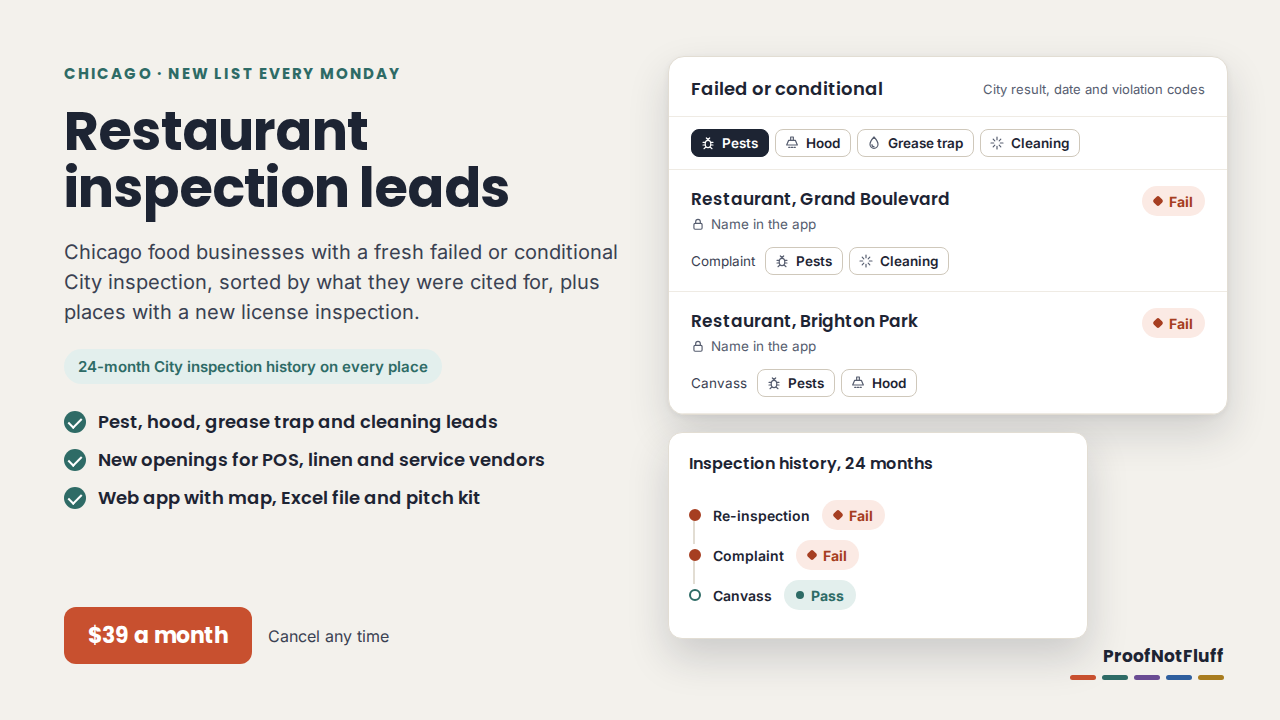
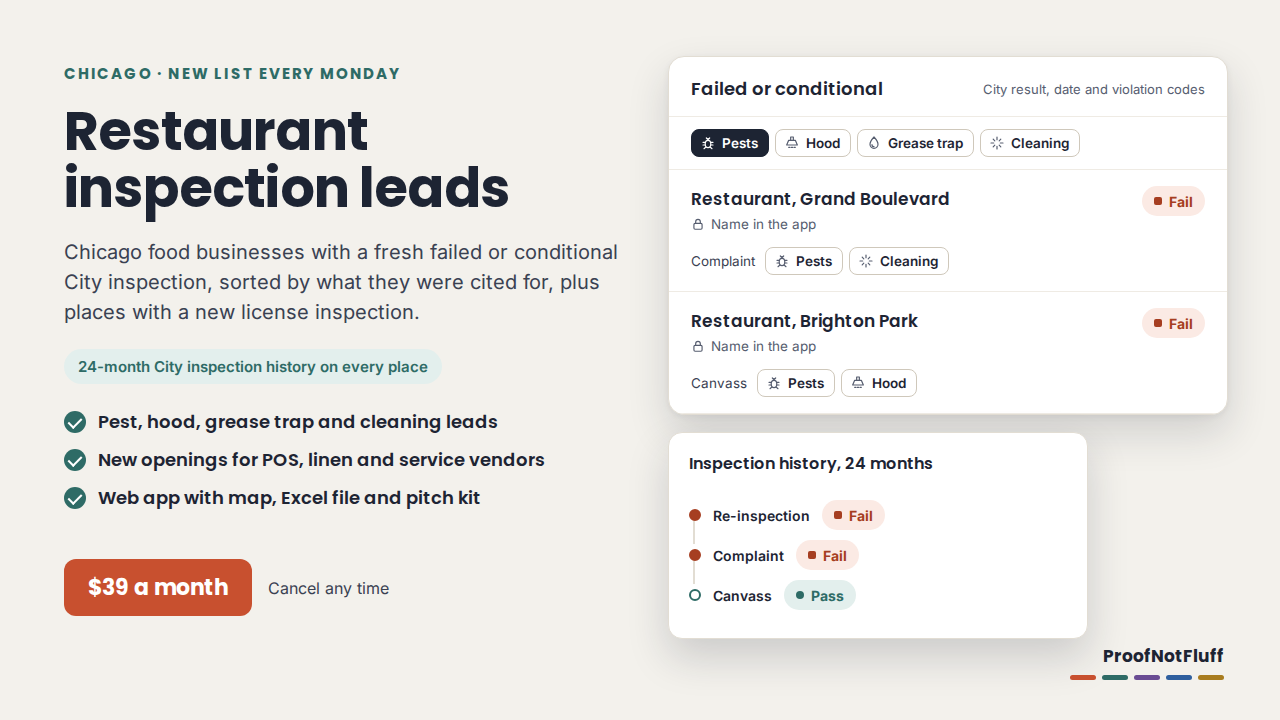
Restaurant leads: holdout round 2 fixes, design polish, rebuild [skip ci]
Grease trap matches the one-word "GREASETRAPS" (Birdman Ramen gets
Grease trap also cited on list 3, so list 3 grease trap is 4), and a
"(38)" straight after an ordinance number names violation 38
(Morrison's Soul Food: Pests 38, 60), each with planted cases. One
shared sentence states who is left out, person-name rule included, on
the workbook Start Here and Terms, the app Terms and the free page.
Free page: trade card at the FAQ measure, 16px over the button,
balanced headings. Rebuilt the free page, cover and thumbnail.

Claude-Session: https://claude.ai/code/session_01VfoTMaqrFpuAkHaeJw7KGX

Changed region(s): [[0.0312, 0.7639, 0.3125, 0.9472]]

diff --git a/docs/chicago-restaurant-inspection-leads/index.html b/docs/chicago-restaurant-inspection-leads/index.html
@@ -6,10 +6,10 @@
 <link rel="preconnect" href="https://fonts.googleapis.com"><link rel="preconnect" href="https://fonts.gstatic.com" crossorigin>
 <link href="https://fonts.googleapis.com/css2?family=Poppins:wght@600;700&display=swap" rel="stylesheet">
 <link rel="stylesheet" href="../assets/pnf.css">
-<script type="application/ld+json">{"@context": "https://schema.org", "@type": "FAQPage", "mainEntity": [{"@type": "Question", "name": "Where does this data come from?", "acceptedAnswer": {"@type": "Answer", "text": "The City of Chicago Data Portal's Food Inspections dataset. We pull it every Monday and keep the last 30 days of inspections up to the newest one the City has published, because the City posts results a few days late."}}, {"@type": "Question", "name": "What do the categories mean?", "acceptedAnswer": {"@type": "Answer", "text": "They are our reading of the City's violation codes: Pests is violation 38 (insects, rodents and animals) and any inspector note naming pests; Hood is violation 56 when it names a hood, filter, exhaust or grease; Grease trap and drains is violation 52 and any note naming a grease trap, interceptor or clogged drain; Cleaning is violation 49 and cleaning notes under 53, 54, 55 and 60."}}, {"@type": "Question", "name": "Who is left out?", "acceptedAnswer": {"@type": "Answer", "text": "Schools, day care and other children's sites, hospitals, senior and nursing sites, mobile vendors, any place whose business name is a person's name, and places the City last marked out of business."}}, {"@type": "Question", "name": "Does a place on the list have a problem today?", "acceptedAnswer": {"@type": "Answer", "text": "Not necessarily. The list repeats the City's result on the inspection date. Many places pass a re-inspection within days, and the members' list shows that newer result next to the old one."}}, {"@type": "Question", "name": "Do you contact these businesses for me?", "acceptedAnswer": {"@type": "Answer", "text": "No. You make your own calls and emails. We never contact anyone on your behalf, and no business listed has endorsed or works with ProofNotFluff."}}, {"@type": "Question", "name": "Why doesn't this page show names?", "acceptedAnswer": {"@type": "Answer", "text": "On this public page we never name a business with a failed result. Members get the full list, licensed to their own business for its own sales calls."}}]}</script><style>.ld-page .asof,.ld-page footer p{color:#555B68}.ld-pill.rp-fail{background:#FBEAE4;color:#A63E21}.ld-pill.rp-pwc{background:#F6EDD5;color:#7A5A12}.ld-pill.rp-pass{background:#E3EFED;color:#2E6B66}.ld-pill.rp-oth{background:#E6EDF6;color:#2F5F9E}.rl-act{margin:18px 0 24px}.ld-page .ld-tiles .tile .lab{letter-spacing:.04em;overflow-wrap:anywhere}@media(max-width:600px){.ld-page .ld-tiles .tile .lab{font-size:10.5px;letter-spacing:.02em}}.rl3 .ld-pill{margin:0 0 10px}.rl3 .ld-ptop{margin:0 0 12px}.rl-lock{display:flex;align-items:center;gap:6px;margin:0 0 6px;font-size:13px;color:#555B68}.rl-lock svg{flex:none}@media(min-width:1000px){.ld-list.rl3{grid-template-columns:repeat(3,minmax(0,1fr))}}.rl-trades{list-style:none;margin:14px 0 0;padding:0;background:#fff;border:1px solid var(--line);border-radius:12px}.rl-trades li{display:flex;justify-content:space-between;align-items:center;gap:16px;padding:12px 16px;border-top:1px solid #EFEBE4}.rl-trades li:first-child{border-top:0}.rl-trades .nm{font-weight:600;color:var(--ink)}.rl-trades .nm small{display:block;font-size:13.5px;font-weight:400;color:#555B68;margin-top:2px}.rl-trades .n{font:700 18px/1 Poppins,system-ui,sans-serif;color:var(--ink);font-variant-numeric:tabular-nums}</style>
+<script type="application/ld+json">{"@context": "https://schema.org", "@type": "FAQPage", "mainEntity": [{"@type": "Question", "name": "Where does this data come from?", "acceptedAnswer": {"@type": "Answer", "text": "The City of Chicago Data Portal's Food Inspections dataset. We pull it every Monday and keep the last 30 days of inspections up to the newest one the City has published, because the City posts results a few days late."}}, {"@type": "Question", "name": "What do the categories mean?", "acceptedAnswer": {"@type": "Answer", "text": "They are our reading of the City's violation codes: Pests is violation 38 (insects, rodents and animals) and any inspector note naming pests; Hood is violation 56 when it names a hood, filter, exhaust or grease; Grease trap and drains is violation 52 and any note naming a grease trap, interceptor or clogged drain; Cleaning is violation 49 and cleaning notes under 53, 54, 55 and 60."}}, {"@type": "Question", "name": "Who is left out?", "acceptedAnswer": {"@type": "Answer", "text": "Schools, colleges, day care and other children's sites, hospitals, senior and nursing sites, mobile vendors, and places the City last marked out of business are left out. So is a place whose business name reads as only a person's name: a first and last name, with or without LLC or Inc, or a title and a first name, such as \"Chef Maria\". A name with a business word or a possessive, such as \"Garcia Bakery\" or \"Maria's Kitchen\", stays."}}, {"@type": "Question", "name": "Does a place on the list have a problem today?", "acceptedAnswer": {"@type": "Answer", "text": "Not necessarily. The list repeats the City's result on the inspection date. Many places pass a re-inspection within days, and the members' list shows that newer result next to the old one."}}, {"@type": "Question", "name": "Do you contact these businesses for me?", "acceptedAnswer": {"@type": "Answer", "text": "No. You make your own calls and emails. We never contact anyone on your behalf, and no business listed has endorsed or works with ProofNotFluff."}}, {"@type": "Question", "name": "Why doesn't this page show names?", "acceptedAnswer": {"@type": "Answer", "text": "On this public page we never name a business with a failed result. Members get the full list, licensed to their own business for its own sales calls."}}]}</script><style>.ld-page .asof,.ld-page footer p{color:#555B68}.ld-pill.rp-fail{background:#FBEAE4;color:#A63E21}.ld-pill.rp-pwc{background:#F6EDD5;color:#7A5A12}.ld-pill.rp-pass{background:#E3EFED;color:#2E6B66}.ld-pill.rp-oth{background:#E6EDF6;color:#2F5F9E}.rl-act{margin:18px 0 24px}.ld-page .ld-tiles .tile .lab{letter-spacing:.04em;overflow-wrap:anywhere}@media(max-width:600px){.ld-page .ld-tiles .tile .lab{font-size:10.5px;letter-spacing:.02em}}.rl3 .ld-pill{margin:0 0 10px}.rl3 .ld-ptop{margin:0 0 12px}.rl-lock{display:flex;align-items:center;gap:6px;margin:0 0 6px;font-size:13px;color:#555B68}.rl-lock svg{flex:none}@media(min-width:1000px){.ld-list.rl3{grid-template-columns:repeat(3,minmax(0,1fr))}}.rl-trades{list-style:none;margin:14px 0 0;padding:0;background:#fff;border:1px solid var(--line);border-radius:12px}.rl-trades li{display:flex;justify-content:space-between;align-items:center;gap:16px;padding:12px 16px;border-top:1px solid #EFEBE4}.rl-trades li:first-child{border-top:0}.rl-trades .nm{font-weight:600;color:var(--ink)}.rl-trades .nm small{display:block;font-size:13.5px;font-weight:400;color:#555B68;margin-top:2px}.rl-trades .n{font:700 18px/1 Poppins,system-ui,sans-serif;color:var(--ink);font-variant-numeric:tabular-nums}.rl-trades{max-width:760px}section.block .rl-trades li{max-width:none}.ld-page .ld-cta p.ld-buybtn{margin-top:16px}.ld-page h2,.ld-page summary{text-wrap:balance}</style>
 </head><body class="ld-page">
 <header class="top"><div class="wrap"><div><a class="brand" href="../">ProofNotFluff</a><div class="bars"><i></i><i></i><i></i><i></i><i></i></div></div>
 <nav class="top"><a href="../">Free calculators</a><a href="https://proofnotfluff.etsy.com">Etsy shop</a></nav></div></header>
-<main class="wrap"><div class="ld-hero"><p class="eyebrow">Free sample, updated every Monday</p><h1>Chicago Restaurant Inspection Leads</h1><p class="lede">117 Chicago food businesses failed or passed with conditions in the last 30 days, and 130 had the license inspection Chicago does before it issues a food license. For pest control, hood cleaning, grease trap and commercial kitchen cleaning companies, and vendors to new restaurants.</p><div class="ld-heroact rl-act" id="ldHeroCta"><a class="btn ld-btnbig" href="mailto:hello@proofnotfluff.com?subject=Chicago%20Restaurant%20Inspection%20Leads%3A%20tell%20me%20when%20it%20opens">Tell me when it opens</a><a class="ld-textlink" href="#sample">See this week's sample</a></div><p class="ld-heronote">$39 a month when it opens. New list every Monday.</p></div><div class="tiles ld-tiles"><div class="tile key"><div class="lab">Failed or conditional</div><div class="val">117</div><div class="sub">last 30 days</div></div><div class="tile"><div class="lab">Opening soon</div><div class="val">130</div><div class="sub">license inspections</div></div><div class="tile"><div class="lab">Failed more than once</div><div class="val">23</div><div class="sub">2 or more fails in 90 days</div></div><div class="tile"><div class="lab">New this week</div><div class="val">52</div><div class="sub">inspected in the last 7 days</div></div></div><p class="asof">City records through Oct 16, 2026, pulled Oct 17, 2026. Refreshed every Monday.</p><section class="block"><h2>Leads by trade this week</h2><p>Places on the failed or conditional list, by the violation category that fits your work, and places that had a license inspection.</p><ol class="rl-trades"><li><span class="nm">Pest control<small>with a pest violation</small></span><span class="n">81</span></li><li><span class="nm">Hood and exhaust cleaning<small>with a hood or exhaust violation</small></span><span class="n">23</span></li><li><span class="nm">Grease trap and drains<small>with a grease trap or drain violation</small></span><span class="n">12</span></li><li><span class="nm">Kitchen cleaning<small>with a cleaning violation</small></span><span class="n">93</span></li><li><span class="nm">POS, linen and new-account vendors<small>with a license inspection</small></span><span class="n">130</span></li></ol></section><section class="block" id="sample"><h2>Failed or conditional: a sample</h2><p>The members' list names each place, with its address, its 24-month City inspection history and the City's violation codes. This public sample shows the record without the name.</p><div class="ld-list rl3"><article class="ld-proj"><p class="ld-pill rp-fail">City result: Fail</p><p class="rl-lock"><svg width="14" height="14" viewBox="0 0 24 24" fill="none" stroke="currentColor" stroke-width="2" aria-hidden="true"><rect x="5" y="11" width="14" height="10" rx="2"/><path d="M8 11V8a4 4 0 0 1 8 0v3"/></svg>Name and address on the members' list</p><div class="ld-ptop"><span class="ld-cost" style="font-size:20px">Restaurant in Grand Boulevard</span></div><dl class="ld-meta"><div><dt>Categories</dt><dd>Pests, Cleaning</dd></div><div><dt>Inspected</dt><dd>Oct 16, 2026, Complaint</dd></div></dl></article><article class="ld-proj"><p class="ld-pill rp-fail">City result: Fail</p><p class="rl-lock"><svg width="14" height="14" viewBox="0 0 24 24" fill="none" stroke="currentColor" stroke-width="2" aria-hidden="true"><rect x="5" y="11" width="14" height="10" rx="2"/><path d="M8 11V8a4 4 0 0 1 8 0v3"/></svg>Name and address on the members' list</p><div class="ld-ptop"><span class="ld-cost" style="font-size:20px">Restaurant in West Elsdon</span></div><dl class="ld-meta"><div><dt>Categories</dt><dd>Pests, Cleaning</dd></div><div><dt>Inspected</dt><dd>Oct 15, 2026, Complaint</dd></div></dl></article><article class="ld-proj"><p class="ld-pill rp-pwc">City result: Pass w/ Conditions</p><p class="rl-lock"><svg width="14" height="14" viewBox="0 0 24 24" fill="none" stroke="currentColor" stroke-width="2" aria-hidden="true"><rect x="5" y="11" width="14" height="10" rx="2"/><path d="M8 11V8a4 4 0 0 1 8 0v3"/></svg>Name and address on the members' list</p><div class="ld-ptop"><span class="ld-cost" style="font-size:20px">Restaurant in Hyde Park</span></div><dl class="ld-meta"><div><dt>Categories</dt><dd>Cleaning</dd></div><div><dt>Inspected</dt><dd>Oct 15, 2026, Canvass</dd></div></dl></article></div></section><section class="block"><h2>Opening soon: a sample</h2><p>Chicago inspects a food business before it issues a food license, so many of these places are about to open or just opened. A new food business usually needs pest control, cleaning, linen and a point of sale, and many need hood and grease service. This public sample names only places that passed.</p><div class="ld-list rl3"><article class="ld-proj"><p class="ld-pill rp-pass">License inspection: Pass</p><div class="ld-ptop"><span class="ld-cost" style="font-size:20px">La Michoacana</span><span class="ld-type">Restaurant</span></div><dl class="ld-meta"><div><dt>Where</dt><dd>2740 W 59th St, Gage Park</dd></div><div><dt>Inspected</dt><dd>Oct 16, 2026, License</dd></div></dl></article><article class="ld-proj"><p class="ld-pill rp-pass">License inspection: Pass</p><div class="ld-ptop"><span class="ld-cost" style="font-size:20px">Da&#x27;s Catering LLC</span><span class="ld-type">Restaurant</span></div><dl class="ld-meta"><div><dt>Where</dt><dd>7117 S State St, Greater Grand Crossing</dd></div><div><dt>Inspected</dt><dd>Oct 15, 2026, License</dd></div></dl></article><article class="ld-proj"><p class="ld-pill rp-pass">License inspection: Pass</p><div class="ld-ptop"><span class="ld-cost" style="font-size:20px">Gibsons Tavern</span><span class="ld-type">Restaurant</span></div><dl class="ld-meta"><div><dt>Where</dt><dd>925 W Fulton Market, Near West Side</dd></div><div><dt>Inspected</dt><dd>Oct 15, 2026, License</dd></div></dl></article></div></section><section class="block"><h2>How to use this list</h2><p>Pick your category. A pest violation is a pest control lead, a ventilation or hood violation is a hood cleaning lead, and a waste water or grease trap violation is a grease trap lead.</p><p>Call within a few days of the inspection date, during a quiet hour (2 to 4 pm suits most kitchens). Name the City&#x27;s public record and its date, and leave any judgment out of it.</p><p>Offer what helps before the re-inspection: a service visit, a service log or a cleaning record the inspector can see.</p><p>Work the openings list early. A place that just had its license inspection is choosing every vendor for the first time.</p></section><section class="block" id="ldCta"><div class="cta ld-cta"><div><h2>Get the full list every Monday</h2><p>Every place on all three lists, named, with its address, community area, the City&#x27;s result and date, our violation category with the City&#x27;s violation codes, and its 24-month inspection history: in a members&#x27; web app with a map, filters by category, result, area and date, and CSV export, and in an Excel file. Plus a pitch kit: a call opener and an email for each trade.</p><p class="ld-price">$39 a month when it opens.</p><p class="ld-buybtn"><a class="btn ld-btnbig" href="mailto:hello@proofnotfluff.com?subject=Chicago%20Restaurant%20Inspection%20Leads%3A%20tell%20me%20when%20it%20opens">Tell me when it opens</a></p></div></div></section><section class="block"><h2>Questions</h2><details><summary>Where does this data come from?</summary><p>The City of Chicago Data Portal&#x27;s Food Inspections dataset. We pull it every Monday and keep the last 30 days of inspections up to the newest one the City has published, because the City posts results a few days late.</p></details><details><summary>What do the categories mean?</summary><p>They are our reading of the City&#x27;s violation codes: Pests is violation 38 (insects, rodents and animals) and any inspector note naming pests; Hood is violation 56 when it names a hood, filter, exhaust or grease; Grease trap and drains is violation 52 and any note naming a grease trap, interceptor or clogged drain; Cleaning is violation 49 and cleaning notes under 53, 54, 55 and 60.</p></details><details><summary>Who is left out?</summary><p>Schools, day care and other children&#x27;s sites, hospitals, senior and nursing sites, mobile vendors, any place whose business name is a person&#x27;s name, and places the City last marked out of business.</p></details><details><summary>Does a place on the list have a problem today?</summary><p>Not necessarily. The list repeats the City&#x27;s result on the inspection date. Many places pass a re-inspection within days, and the members&#x27; list shows that newer result next to the old one.</p></details><details><summary>Do you contact these businesses for me?</summary><p>No. You make your own calls and emails. We never contact anyone on your behalf, and no business listed has endorsed or works with ProofNotFluff.</p></details><details><summary>Why doesn&#x27;t this page show names?</summary><p>On this public page we never name a business with a failed result. Members get the full list, licensed to their own business for its own sales calls.</p></details></section></main>
-<footer><div class="wrap"><p>Source: City of Chicago Data Portal, Food Inspections (https://data.cityofchicago.org/Health-Human-Services/Food-Inspections/4ijn-s7e5), City records through Oct 16, 2026, pulled Oct 17, 2026. Filtered by ProofNotFluff: inspections of the last 30 days at food businesses (schools, day care and other children's sites, hospitals, senior and nursing sites, mobile vendors and businesses named after a person left out) with a City result of Fail or Pass w/ Conditions and a violation in one of four categories, a license inspection, or two failed inspections in 90 days. Categories are ProofNotFluff's reading of the City's violation codes; inspector notes are not republished. A record repeats the City's result on that date; it does not say a place is clean, safe or open today. No business named here has endorsed or works with ProofNotFluff. Public information for planning sales calls; not legal or business advice and no promise of work.</p><p>This site provides applications using data that has been modified for use from its original source, www.cityofchicago.org, the official website of the City of Chicago. The City of Chicago makes no claims as to the content, accuracy, timeliness, or completeness of any of the data provided at this site. The data provided at this site is subject to change at any time. It is understood that the data provided at this site is being used at one’s own risk.</p><p>Made by ProofNotFluff with AI assistance from public City data. The page counts visits with Cloudflare Web Analytics, which sets no cookies, and loads its heading font from Google Fonts.</p></div></footer>
+<main class="wrap"><div class="ld-hero"><p class="eyebrow">Free sample, updated every Monday</p><h1>Chicago Restaurant Inspection Leads</h1><p class="lede">117 Chicago food businesses failed or passed with conditions in the last 30 days, and 130 had the license inspection Chicago does before it issues a food license. For pest control, hood cleaning, grease trap and commercial kitchen cleaning companies, and vendors to new restaurants.</p><div class="ld-heroact rl-act" id="ldHeroCta"><a class="btn ld-btnbig" href="mailto:hello@proofnotfluff.com?subject=Chicago%20Restaurant%20Inspection%20Leads%3A%20tell%20me%20when%20it%20opens">Tell me when it opens</a><a class="ld-textlink" href="#sample">See this week's sample</a></div><p class="ld-heronote">$39 a month when it opens. New list every Monday.</p></div><div class="tiles ld-tiles"><div class="tile key"><div class="lab">Failed or conditional</div><div class="val">117</div><div class="sub">last 30 days</div></div><div class="tile"><div class="lab">Opening soon</div><div class="val">130</div><div class="sub">license inspections</div></div><div class="tile"><div class="lab">Failed more than once</div><div class="val">23</div><div class="sub">2 or more fails in 90 days</div></div><div class="tile"><div class="lab">New this week</div><div class="val">52</div><div class="sub">inspected in the last 7 days</div></div></div><p class="asof">City records through Oct 16, 2026, pulled Oct 17, 2026. Refreshed every Monday.</p><section class="block"><h2>Leads by trade this week</h2><p>Places on the failed or conditional list, by the violation category that fits your work, and places that had a license inspection.</p><ol class="rl-trades"><li><span class="nm">Pest control<small>with a pest violation</small></span><span class="n">81</span></li><li><span class="nm">Hood and exhaust cleaning<small>with a hood or exhaust violation</small></span><span class="n">23</span></li><li><span class="nm">Grease trap and drains<small>with a grease trap or drain violation</small></span><span class="n">12</span></li><li><span class="nm">Kitchen cleaning<small>with a cleaning violation</small></span><span class="n">93</span></li><li><span class="nm">POS, linen and new-account vendors<small>with a license inspection</small></span><span class="n">130</span></li></ol></section><section class="block" id="sample"><h2>Failed or conditional: a sample</h2><p>The members' list names each place, with its address, its 24-month City inspection history and the City's violation codes. This public sample shows the record without the name.</p><div class="ld-list rl3"><article class="ld-proj"><p class="ld-pill rp-fail">City result: Fail</p><p class="rl-lock"><svg width="14" height="14" viewBox="0 0 24 24" fill="none" stroke="currentColor" stroke-width="2" aria-hidden="true"><rect x="5" y="11" width="14" height="10" rx="2"/><path d="M8 11V8a4 4 0 0 1 8 0v3"/></svg>Name and address on the members' list</p><div class="ld-ptop"><span class="ld-cost" style="font-size:20px">Restaurant in Grand Boulevard</span></div><dl class="ld-meta"><div><dt>Categories</dt><dd>Pests, Cleaning</dd></div><div><dt>Inspected</dt><dd>Oct 16, 2026, Complaint</dd></div></dl></article><article class="ld-proj"><p class="ld-pill rp-fail">City result: Fail</p><p class="rl-lock"><svg width="14" height="14" viewBox="0 0 24 24" fill="none" stroke="currentColor" stroke-width="2" aria-hidden="true"><rect x="5" y="11" width="14" height="10" rx="2"/><path d="M8 11V8a4 4 0 0 1 8 0v3"/></svg>Name and address on the members' list</p><div class="ld-ptop"><span class="ld-cost" style="font-size:20px">Restaurant in West Elsdon</span></div><dl class="ld-meta"><div><dt>Categories</dt><dd>Pests, Cleaning</dd></div><div><dt>Inspected</dt><dd>Oct 15, 2026, Complaint</dd></div></dl></article><article class="ld-proj"><p class="ld-pill rp-pwc">City result: Pass w/ Conditions</p><p class="rl-lock"><svg width="14" height="14" viewBox="0 0 24 24" fill="none" stroke="currentColor" stroke-width="2" aria-hidden="true"><rect x="5" y="11" width="14" height="10" rx="2"/><path d="M8 11V8a4 4 0 0 1 8 0v3"/></svg>Name and address on the members' list</p><div class="ld-ptop"><span class="ld-cost" style="font-size:20px">Restaurant in Hyde Park</span></div><dl class="ld-meta"><div><dt>Categories</dt><dd>Cleaning</dd></div><div><dt>Inspected</dt><dd>Oct 15, 2026, Canvass</dd></div></dl></article></div></section><section class="block"><h2>Opening soon: a sample</h2><p>Chicago inspects a food business before it issues a food license, so many of these places are about to open or just opened. A new food business usually needs pest control, cleaning, linen and a point of sale, and many need hood and grease service. This public sample names only places that passed.</p><div class="ld-list rl3"><article class="ld-proj"><p class="ld-pill rp-pass">License inspection: Pass</p><div class="ld-ptop"><span class="ld-cost" style="font-size:20px">La Michoacana</span><span class="ld-type">Restaurant</span></div><dl class="ld-meta"><div><dt>Where</dt><dd>2740 W 59th St, Gage Park</dd></div><div><dt>Inspected</dt><dd>Oct 16, 2026, License</dd></div></dl></article><article class="ld-proj"><p class="ld-pill rp-pass">License inspection: Pass</p><div class="ld-ptop"><span class="ld-cost" style="font-size:20px">Da&#x27;s Catering LLC</span><span class="ld-type">Restaurant</span></div><dl class="ld-meta"><div><dt>Where</dt><dd>7117 S State St, Greater Grand Crossing</dd></div><div><dt>Inspected</dt><dd>Oct 15, 2026, License</dd></div></dl></article><article class="ld-proj"><p class="ld-pill rp-pass">License inspection: Pass</p><div class="ld-ptop"><span class="ld-cost" style="font-size:20px">Gibsons Tavern</span><span class="ld-type">Restaurant</span></div><dl class="ld-meta"><div><dt>Where</dt><dd>925 W Fulton Market, Near West Side</dd></div><div><dt>Inspected</dt><dd>Oct 15, 2026, License</dd></div></dl></article></div></section><section class="block"><h2>How to use this list</h2><p>Pick your category. A pest violation is a pest control lead, a ventilation or hood violation is a hood cleaning lead, and a waste water or grease trap violation is a grease trap lead.</p><p>Call within a few days of the inspection date, during a quiet hour (2 to 4 pm suits most kitchens). Name the City&#x27;s public record and its date, and leave any judgment out of it.</p><p>Offer what helps before the re-inspection: a service visit, a service log or a cleaning record the inspector can see.</p><p>Work the openings list early. A place that just had its license inspection is choosing every vendor for the first time.</p></section><section class="block" id="ldCta"><div class="cta ld-cta"><div><h2>Get the full list every Monday</h2><p>Every place on all three lists, named, with its address, community area, the City&#x27;s result and date, our violation category with the City&#x27;s violation codes, and its 24-month inspection history: in a members&#x27; web app with a map, filters by category, result, area and date, and CSV export, and in an Excel file. Plus a pitch kit: a call opener and an email for each trade.</p><p class="ld-price">$39 a month when it opens.</p><p class="ld-buybtn"><a class="btn ld-btnbig" href="mailto:hello@proofnotfluff.com?subject=Chicago%20Restaurant%20Inspection%20Leads%3A%20tell%20me%20when%20it%20opens">Tell me when it opens</a></p></div></div></section><section class="block"><h2>Questions</h2><details><summary>Where does this data come from?</summary><p>The City of Chicago Data Portal&#x27;s Food Inspections dataset. We pull it every Monday and keep the last 30 days of inspections up to the newest one the City has published, because the City posts results a few days late.</p></details><details><summary>What do the categories mean?</summary><p>They are our reading of the City&#x27;s violation codes: Pests is violation 38 (insects, rodents and animals) and any inspector note naming pests; Hood is violation 56 when it names a hood, filter, exhaust or grease; Grease trap and drains is violation 52 and any note naming a grease trap, interceptor or clogged drain; Cleaning is violation 49 and cleaning notes under 53, 54, 55 and 60.</p></details><details><summary>Who is left out?</summary><p>Schools, colleges, day care and other children&#x27;s sites, hospitals, senior and nursing sites, mobile vendors, and places the City last marked out of business are left out. So is a place whose business name reads as only a person&#x27;s name: a first and last name, with or without LLC or Inc, or a title and a first name, such as &quot;Chef Maria&quot;. A name with a business word or a possessive, such as &quot;Garcia Bakery&quot; or &quot;Maria&#x27;s Kitchen&quot;, stays.</p></details><details><summary>Does a place on the list have a problem today?</summary><p>Not necessarily. The list repeats the City&#x27;s result on the inspection date. Many places pass a re-inspection within days, and the members&#x27; list shows that newer result next to the old one.</p></details><details><summary>Do you contact these businesses for me?</summary><p>No. You make your own calls and emails. We never contact anyone on your behalf, and no business listed has endorsed or works with ProofNotFluff.</p></details><details><summary>Why doesn&#x27;t this page show names?</summary><p>On this public page we never name a business with a failed result. Members get the full list, licensed to their own business for its own sales calls.</p></details></section></main>
+<footer><div class="wrap"><p>Source: City of Chicago Data Portal, Food Inspections (https://data.cityofchicago.org/Health-Human-Services/Food-Inspections/4ijn-s7e5), City records through Oct 16, 2026, pulled Oct 17, 2026. Filtered by ProofNotFluff: inspections of the last 30 days at food businesses, less the places under "Who is left out?" above, with a City result of Fail or Pass w/ Conditions and a violation in one of four categories, a license inspection, or two failed inspections in 90 days. Categories are ProofNotFluff's reading of the City's violation codes; inspector notes are not republished. A record repeats the City's result on that date; it does not say a place is clean, safe or open today. No business named here has endorsed or works with ProofNotFluff. Public information for planning sales calls; not legal or business advice and no promise of work.</p><p>This site provides applications using data that has been modified for use from its original source, www.cityofchicago.org, the official website of the City of Chicago. The City of Chicago makes no claims as to the content, accuracy, timeliness, or completeness of any of the data provided at this site. The data provided at this site is subject to change at any time. It is understood that the data provided at this site is being used at one’s own risk.</p><p>Made by ProofNotFluff with AI assistance from public City data. The page counts visits with Cloudflare Web Analytics, which sets no cookies, and loads its heading font from Google Fonts.</p></div></footer>
 </body></html>

diff --git a/tools/rest_leads.py b/tools/rest_leads.py
@@ -77,7 +77,7 @@ PREVENT = re.compile(r"\b(?:RODENT|MOUSE|RAT|INSECT|PEST)\s+(?:BAIT|STATION|TRAP
                      r"\bFREE (?:OF|FROM) [^.;]*|\bNO (?:EVIDENCE|SIGNS?) OF [^.;]*")
 HOOD_56 = re.compile(r"\bHOODS?\b|\bFILTERS?\b|\bEXHAUST|\bDUCT|\bGREASE")
 HOOD_ANY = re.compile(r"\bHOODS?\b|\bEXHAUST (?:FAN|HOOD|SYSTEM)")
-TRAP = re.compile(r"GREASE\s+TRAP|GREASE\s+INTERCEPTOR|\bINTERCEPTOR")
+TRAP = re.compile(r"GREASE\s*TRAP|GREASE\s+INTERCEPTOR|\bINTERCEPTOR")   # "GREASETRAPS" as one word too (holdout round 2)
 DRAIN = re.compile(r"\bCLOG|\bBACK(?:ING|ED|S)?[\s-]+UP\b|\bSLOW(?:LY)?[\s-]+DRAIN|\bNOT\s+DRAINING|\bSTANDING\s+WATER|\bSEWAGE|\bSEWER")
 CLEAN_WORDS = re.compile(r"\bCLEAN(?:ED|ING)?\b|\bDIRT|\bDEBRIS|\bGREASE|\bGREASY|\bGRIME|\bDUST|\bMOLD|\bMILDEW|\bRESIDUE|"
                          r"\bBUILD[\s-]?UP|\bBUILT[\s-]?UP|\bACCUMULAT|\bSOIL(?:ED)?\b|\bSLIME")
@@ -86,7 +86,8 @@ NOT_CLEAN = re.compile(r"\bEASILY\s+CLEANABLE|\bCLEANABLE|\bICE\s+BUILD[\s-]?UP|
 
 
 # City ordinance and food code rule numbers ("7-38-030(C)", "6-501.111", "8-404.13(B)(3)") are never violation codes
-CODE_REFS_STRIP = re.compile(r"\b\d{1,2}-\d{1,3}-\d{1,3}(?:\s*\([A-Z0-9:]+\))*|\b\d-\d{3}(?:\.\d+)+(?:\s*\([A-Z0-9:]+\))*")
+# A paragraph mark like "(C)" or "(B)(3)" goes with the number; a bare two-digit "(38)" after it is a violation code (holdout round 2)
+CODE_REFS_STRIP = re.compile(r"\b\d{1,2}-\d{1,3}-\d{1,3}(?:\s*\((?!\d{2}\))[A-Z0-9:]+\))*|\b\d-\d{3}(?:\.\d+)+(?:\s*\((?!\d{2}\))[A-Z0-9:]+\))*")
 CODE_REF = re.compile(r"#\s*(\d{1,2})(?!\d)|\bVIOLATIONS?\s*(?:#|NO\.?|NUMBER)?\s*(\d{1,2})(?!\d)|"
                       r"(?:^|(?<=[\s:;,(\-]))(\d{2})\s*(?:\)|[-.:](?=\s*[A-Z*]))")
 
@@ -167,6 +168,12 @@ SUPERMERCADO MINI SUPER FOOD-MART DOLLAR WALGREENS CVS TARGET COSTCO JEWEL ALDI 
 SUBWAY WENDYS STARBUCKS DUNKIN POTBELLY CHIPOTLE PANERA POPEYES HAROLDS HAROLD'S ROTI SALAD BOWL BOWLS POKE BOX TRUCK
 CARNITAS BIRRIA POZOLE POZOLERIA ELOTES TORTAS TORTILLERIA TAMALERIA MOLE MENUDO CEVICHE BIRRIERIA LONCHERIA BURRITOS QUESADILLAS
 GYRO HOTDOG HOTDOGS DOGS BEEF PORK RIBS CHOPHOUSE TAPAS DUMPLING DUMPLINGS BAO CURRY BIRYANI KABOB KABOBS SAJ JERK PATTY""".split())
+# The one sentence every surface uses for who is left out (workbook Start Here and Terms, app Terms, free page FAQ); it states
+# the rules below in plain words (holdout round 2).
+LEFT_OUT = ("Schools, colleges, day care and other children's sites, hospitals, senior and nursing sites, mobile vendors, and places "
+            "the City last marked out of business are left out. So is a place whose business name reads as only a person's name: a "
+            "first and last name, with or without LLC or Inc, or a title and a first name, such as \"Chef Maria\". A name with a "
+            "business word or a possessive, such as \"Garcia Bakery\" or \"Maria's Kitchen\", stays.")
 TITLES = {"CHEF", "MR", "MRS", "MS", "MISS", "DR", "DOCTOR", "SR", "JR", "II", "III", "IV", "SAINT", "ST"}
 FIRST = set("""AARON ABDUL ABEL ABIGAIL ABRAHAM ADA ADAM ADRIAN ADRIANA AGNES AHMED AIDAN AISHA ALAN ALBERT ALBERTO ALEJANDRA ALEJANDRO ALEX
 ALEXANDER ALEXANDRA ALEXIS ALFONSO ALFREDO ALI ALICE ALICIA ALINA ALISON ALLEN ALMA ALVARO ALVIN AMANDA AMBER AMELIA AMIR AMY ANA
@@ -510,6 +517,11 @@ CAT_CASES = [  # (violations text, expected categories) with invented notes on t
     (V(55, "SOILED FLOORS UNDER COOKING LINE."), {"clean": [55]}),
     ("28. TOXIC SUBSTANCES PROPERLY IDENTIFIED, STORED, & USED - Comments: OBSERVED OPEN RODENT BAIT ON SHELF ABOVE PREP TABLE. MUST REMOVE.", {}),
     ("28. TOXIC SUBSTANCES PROPERLY IDENTIFIED, STORED, & USED - Comments: RODENT BAIT STATION NEXT TO FOOD. ALSO OBSERVED MICE DROPPINGS.", {"pests": [28]}),
+    # holdout round 2: "GREASETRAPS" as one word; "(38)" straight after an ordinance number still names violation 38
+    (V(47, "MUST CLEAN AND REPAIR GREASETRAPS UNDER 3 COMPARTMENT SINK."), {"drain": [47]}),
+    (V(60, "OBSERVED PREVIOUS CORE VIOLATIONS NOT CORRECTED FROM REPORT #2635970. CIATION ISSUED #7-42-090  (38)Violation Codes: 6-202.15 "
+           "GAP ALONG BOTTOM OF FRONT DOORS."), {"pests": [60]}),
+    (V(60, "PREVIOUS CORE VIOLATION NOT CORRECTED. PRIORITY 7-38-030(C) (B) NO CITATION ISSUED. MUST FIX LEAKING FAUCET."), {}),
 ]
 CAT_CASES = [(t, {k: v for k, v in want.items() if v}) for t, want in CAT_CASES]
 
@@ -520,7 +532,7 @@ PERSON_CASES = [("MARIA GARCIA", True), ("JOHN SMITH", True), ("CHEF TARYN", Tru
                 ("JJ FISH", False), ("CHARLIES CHICAGO", False), ("MAXWELL STREET CICERO", False), ("ROSAS TAMALES INC", False),
                 ("THE HAT", False), ("FIVE GUYS", False), ("JULIANA RESTAURANT", False), ("CAFE MUSTACHE", False), ("DON PEDRO CARNITAS", False), ("BUNDOO KHAN", True), ("YANQUI LEON LLC", True),
                 ("BILLAL'S", False), ("MODESTO", False), ("RIVERFISH KING", False), ("HAN RAMYUN INC.", False), ("GREEN DRAGON", False),
-                ("SMOOTHIE KING", False), ("", False)]
+                ("SMOOTHIE KING", False), ("CHEF MARIA", True), ("MARIA GARCIA LLC", True), ("MARIA GARCIA INC", True), ("GARCIA BAKERY", False), ("", False)]
 
 
 def selftest():

diff --git a/tools/rest_xlsx.py b/tools/rest_xlsx.py
@@ -22,7 +22,7 @@ import pnf_dash as D  # noqa: E402
 from leads_xlsx import CITY_DISCLAIMER, GRID, INNER, TEXT_W, card_sheet, rich  # noqa: E402
 from openpyxl.styles import Alignment, Border  # noqa: E402
 from openpyxl.utils import get_column_letter as gl  # noqa: E402
-from rest_leads import CATEGORIES, CAT_LABEL, CAT_ORDER, PRODUCT, pretty
+from rest_leads import CATEGORIES, CAT_LABEL, CAT_ORDER, LEFT_OUT, PRODUCT, pretty
 CAT_SHORT = {k: s for k, _, s, _ in CATEGORIES}  # noqa: E402
 
 TABS = {"flagged": "1 Failed or conditional", "opening": "2 Opening soon", "repeat": "3 Failed more than once",
@@ -110,6 +110,7 @@ def terms_text(date):
         "its next inspection. The violation categories are ProofNotFluff's reading of the City's violation codes and notes, not the City's "
         "own labels. Inspection types are the City's, except that the City's \"Suspected Food Poisoning\" inspections, which follow a "
         "complaint, are shown as Complaint. Confirm anything you rely on with the business or the City.",
+        "Who is left out. " + LEFT_OUT,
         "What the list does not say. A place on the list has a public inspection record; the list does not say it is clean or unsafe, "
         "open or closed, or in need of any service. Don't present the list, or anything in it, as a judgment about a business.",
         "No promise of results. Counts and categories are figures from City records. Nothing here promises any work, contract, income "
@@ -490,8 +491,7 @@ def start_here(wb, data, list_date, n1, n2, n3, new1, new2):
                                 "or clogged drain; Cleaning is violation 49 and cleaning notes under 53, 54, 55 and 60. A 59 or 60 (an earlier "
                                 "violation not corrected) counts in the category of the violation its note names. The numbers in each row are the "
                                 "codes cited on that row's inspection; Also cited names a category from an earlier inspection in the window.")),
-        ("lead", ("Left out", "Schools, colleges, day care and other children's sites, hospitals, senior and nursing sites, mobile vendors, any "
-                              "place whose business name is a person's full name, and places the City last marked out of business.")),
+        ("lead", ("Left out", LEFT_OUT)),
         ("lead", ("Duplicates", "The City sometimes files one visit under several license numbers. Those reports count once, with every "
                                 "violation they cite.")),
         ("lead", ("Not included", "The inspector's written notes. They are public on the City's site; this list only uses them to set a category.")),
@@ -555,7 +555,7 @@ def selftest():
     assert t1["C12"].font.name == "Arial" and t1.auto_filter.ref.startswith("C11")
     sh = wb["Start Here"]
     texts = [c.value for row in sh.iter_rows() for c in row if isinstance(c.value, str)]
-    assert CITY_DISCLAIMER in texts and OUR_NOTICE in texts
+    assert CITY_DISCLAIMER in texts and OUR_NOTICE in texts and LEFT_OUT in texts, "Start Here states the shared left-out sentence"
     # the Start Here tiles count the right columns
     assert "'1 Failed or conditional'!C12:C13" in sh["C8"].value and "'1 Failed or conditional'!O12:O13" in [c.value for row in sh.iter_rows() for c in row if isinstance(c.value, str) and "O12" in c.value][0]
     assert wb[TABS["opening"]]["K11"].value == "NEW THIS WEEK", wb[TABS["opening"]]["K11"].value

diff --git a/tools/rest_site.py b/tools/rest_site.py
@@ -113,13 +113,18 @@ def page_html(p):
           ".rl-trades li{display:flex;justify-content:space-between;align-items:center;gap:16px;padding:12px 16px;border-top:1px solid #EFEBE4}"
           ".rl-trades li:first-child{border-top:0}.rl-trades .nm{font-weight:600;color:var(--ink)}"
           ".rl-trades .nm small{display:block;font-size:13.5px;font-weight:400;color:#555B68;margin-top:2px}"
-          ".rl-trades .n{font:700 18px/1 Poppins,system-ui,sans-serif;color:var(--ink);font-variant-numeric:tabular-nums}</style>")
+          ".rl-trades .n{font:700 18px/1 Poppins,system-ui,sans-serif;color:var(--ink);font-variant-numeric:tabular-nums}"
+          # design director round 2: the trade card is the FAQ's measure (C1), the price line clears the button (C2),
+          # and no heading or question leaves one word alone on a phone (C3)
+          ".rl-trades{max-width:760px}section.block .rl-trades li{max-width:none}"
+          ".ld-page .ld-cta p.ld-buybtn{margin-top:16px}"
+          ".ld-page h2,.ld-page summary{text-wrap:balance}</style>")
     robots = "" if M.is_live(p) else '<meta name="robots" content="noindex, nofollow">'
     src = d["source"]
     foot = (f'</main>\n<footer><div class="wrap">'
             f'<p>Source: {E(src["name"])} ({E(src["url"])}), City records through {E(d["throughText"])}, pulled {asof}. Filtered by ProofNotFluff: '
-            'inspections of the last 30 days at food businesses (schools, day care and other children\'s sites, hospitals, senior and nursing sites, '
-            'mobile vendors and businesses named after a person left out) with a City result of Fail or Pass w/ Conditions and a violation in one of '
+            'inspections of the last 30 days at food businesses, less the places under "Who is left out?" above, with a City result of Fail or '
+            'Pass w/ Conditions and a violation in one of '
             'four categories, a license inspection, or two failed inspections in 90 days. Categories are ProofNotFluff\'s reading of the City\'s '
             'violation codes; inspector notes are not republished. A record repeats the City\'s result on that date; it does not say a place is '
             'clean, safe or open today. No business named here has endorsed or works with ProofNotFluff. Public information for planning sales calls; '
@@ -148,6 +153,9 @@ def selftest():
     assert "Tell me when it opens" in html or "Get the full list, $" in html, "a primary action on the page"
     assert "one’s own risk" in html or "one's own risk" in html.replace("&#x27;", "'")
     assert "—" not in html
+    faq = dict((q, a) for q, a in spec["faq"])
+    assert faq.get("Who is left out?") == rest_leads.LEFT_OUT, "the free page states the shared left-out sentence (holdout round 2)"
+    assert "named after a person" not in html and "full name" not in html, "one wording for the person-name rule"
     for w in ("dirty", "filthy", "infested", "violator", "offender"):
         assert w not in re.sub(r"<[^>]+>", " ", html).lower(), w
     print("rest_site selftest ok")

diff --git a/launches/chicago-restaurant-inspection-leads.md b/launches/chicago-restaurant-inspection-leads.md
@@ -11,9 +11,9 @@ Checklist: design/LAUNCH_CHECKLIST.md. Nothing is published, linked, emailed or 
 
 ## 1. The product
 - [x] Built to standard (WORKBOOK_STANDARD v3 card language from tools/leads_xlsx.py; the app reuses the construction app's stylesheet and encryption).
-- [x] Self-checks: rest_leads --selftest (35 category cases on the City's real titles, 35 name cases, 18 planted inspections), rest_xlsx, rest_app (node checks of dates, CSV guard and result classes), rest_site, rest_seal; check_repo 0 errors with 29 planted failures caught; render_xlsx ERROR VALUES: 0 on screen and print, every tab opened; Playwright at 390 and 1280 on every view (gate, Terms before password, wrong password, overview, trade memory, three lists, filters, CSV, map pins, place page, notes, back button, pitch kit, Terms, workbook download, filter sheet): all pass, no console errors, no horizontal scroll; axe-core 4.10.2 WCAG 2.1 AA 0 violations on every view and on the free page; 44 px touch targets on phone.
-- [ ] Holdout PASS: round 1 FAIL (59/60 notes naming another code, ordinance numbers read as codes, duplicate reports across licenses, row codes from the 30-day union, person names, ordinal casing, "soiled", new by own date, colleges). All fixed with planted cases and rebuilt Oct 17; re-check pending.
-- [ ] Design director PASS on the app, workbook, free page, cover and thumbnail: round 1 FAIL 4.29; all 47 fixes applied and rebuilt Oct 17; re-review pending.
+- [x] Self-checks: rest_leads --selftest (38 category cases on the City's real titles, 39 name cases, 18 planted inspections), rest_xlsx, rest_app (node checks of dates, CSV guard and result classes), rest_site, rest_seal; check_repo 0 errors with 29 planted failures caught; render_xlsx ERROR VALUES: 0 on screen and print, every tab opened; Playwright at 390 and 1280 on every view (gate, Terms before password, wrong password, overview, trade memory, three lists, filters, CSV, map pins, place page, notes, back button, pitch kit, Terms, workbook download, filter sheet): all pass, no console errors, no horizontal scroll; axe-core 4.10.2 WCAG 2.1 AA 0 violations on every view and on the free page; 44 px touch targets on phone.
+- [ ] Holdout PASS: round 1 FAIL (59/60 notes naming another code, ordinance numbers read as codes, duplicate reports across licenses, row codes from the 30-day union, person names, ordinal casing, "soiled", new by own date, colleges). All fixed with planted cases. Round 2: two narrow misses (the one-word "GREASETRAPS" spelling, and "(38)" right after an ordinance number); fixed with planted cases and rebuilt Oct 18, with one shared sentence for who is left out on the workbook, app Terms and free page. Final re-check pending.
+- [x] Design director PASS on the app, workbook, free page, cover and thumbnail: round 2 PASS at 4.74, nothing under 4. Fail pins and every key use one square (live session's decision). Round 3 polish items A1 to E1 applied and rebuilt Oct 18.
 - [x] Legal desk: CLEARED WITH FIXES; fixes 1 to 10 applied as worded, plus the rodent bait rule (planted case). Open questions for counsel stay with Todd (City indemnity, LLC on the Terms version line, members' TCPA and CAN-SPAM duties).
 
 ## 2. The storefront (Gumroad, Todd's account)
